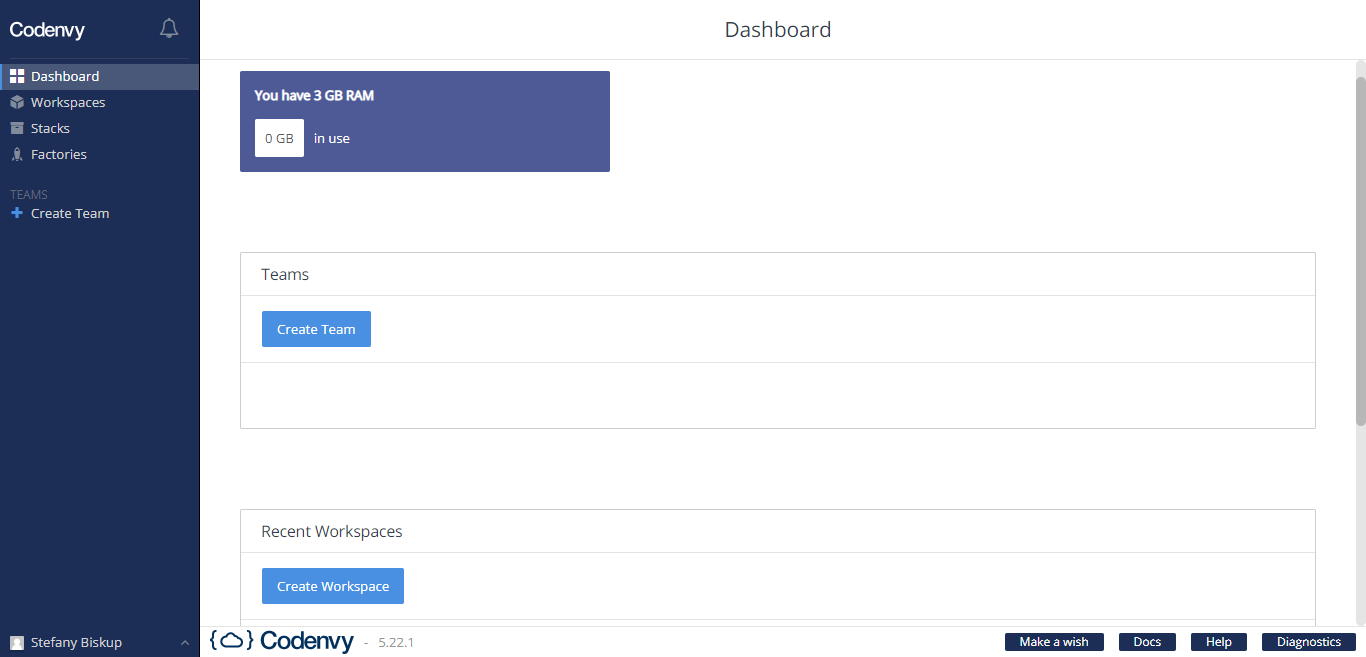
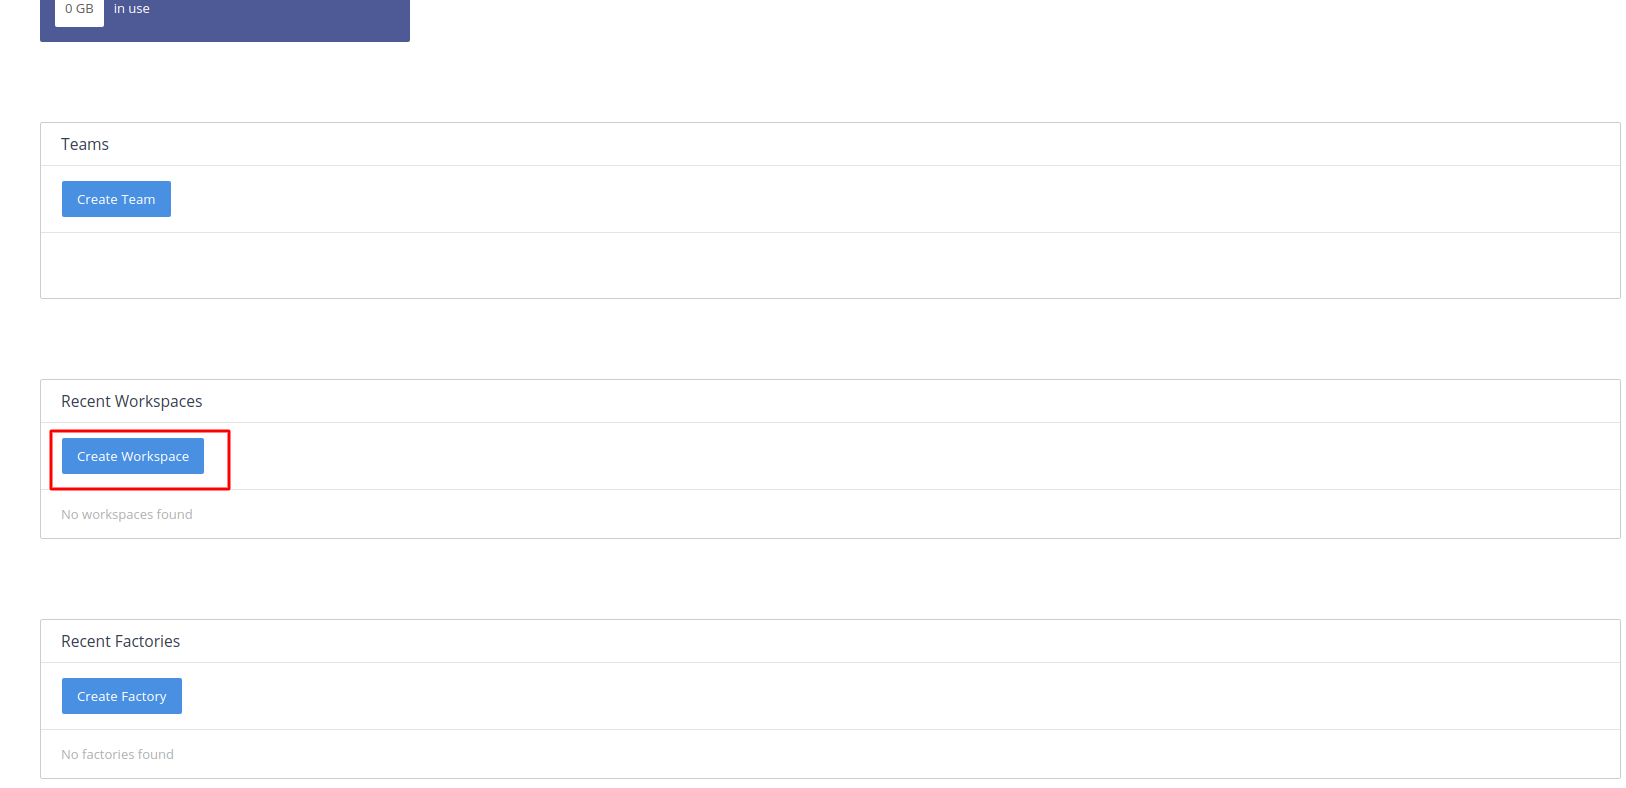
Revisão codeny

diff --git a/README.md b/README.md
@@ -1,15 +1,12 @@
 # Rails Girls Tutorial
+![Readme](images/logovermelho.jpg)
 
 > Este trabalho é licenciado sob a licença Creative Commons Attribution-ShareAlike 4.0. Para ver uma cópia desta licença, visite https://creativecommons.org/licenses/by-sa/4.0/
 
-Esse tutorial é uma modificação usando o conteúdo do [tutorial original](http://guides.railsgirls.com/guides-ptbr/) disponível na página do Rails Girls Guides e também do [tutorial do Django Girls](https://tutorial.djangogirls.org/pt/).
+Esse tutorial é uma modificação usando o conteúdo do [tutorial original](http://guides.railsgirls.com/guides-ptbr/) disponível na página do Rails Girls Guides Oficial, do [tutorial do Django Girls](https://tutorial.djangogirls.org/pt/) e do [tutorial do Django Girls Porto Alegre](https://dgportoalegre.gitbook.io/djangogirls/sourcelair/o-que-e-o-sourcelair).
 
-O tutorial original do Rails Girls pode ser dividido em duas partes: preparação do ambiente e trabalho direto com programação Ruby on Rails, além de um conteudo para quem quer continuar aprendendo sobre Ruby Rails. Mas a primeira parte, a instalação dos programas, era difícil e costumavam acontecer diversos erros devido a instalação ser feita na própria máquina. Portanto, optamos por usar o Codenvy (em edições anteriores utilizamos o Codeanywhere). Apresentaremos a ferramenta no próximo capítulo.
+O tutorial original do Rails Girls pode ser dividido em duas partes: preparação do ambiente e trabalho direto com programação Ruby on Rails, além de um conteudo para quem quer continuar aprendendo sobre. Na primeira parte é realizada a instalação dos programas, era difícil e costumavam acontecer diversos erros devido a instalação ser feita na própria máquina. O tutorial do Django Girls possui conteúdos super bem explicados e lindos que vão facilitar muito nosso entendimento na hora de pôr a mão na massa, por isso pegamos alguns emprestados :)
 
-O tutorial do Django Girls possui conteúdos super bem explicados e lindos que vão facilitar muito nosso entendimento na hora de pôr a mão na massa, por isso pegamos alguns emprestados :)
-
-Assim, o tutorial precisou ser levemente adaptado, para que fosse adicionado as partes necessárias para uso do Codenvy e alguns detalhes mais. :)
-
-Mas não se preocupe, o objetivo final continua o mesmo! Você vai sair da oficina com seu blog no ar e uma ótima introdução ao mundo da programação!
+Por isso o tutorial precisou ser levemente adaptado, tirando partes desnecessárias ou que causavam problema no Codenvy. Mas não se preocupe, o objetivo final continua o mesmo! Você vai sair da oficina com seu blog no ar e uma ótima introdução ao mundo da programação! Esse ano optamos por usar o Codenvy (em edições anteriores utilizamos o Codeanywhere). Apresentaremos a ferramenta no próximo capítulo. Mas não se preocupe, o objetivo final continua o mesmo! Você vai sair da oficina com seu blog no ar e uma ótima introdução ao mundo da programação!
 
 

diff --git a/codenvy/dashboard_workspace.md b/codenvy/dashboard_workspace.md
@@ -1,0 +1,45 @@
+# O que é um Dashboard?
+
+# Caso você já tenha usado o Codenvy
+
+Caso a sua conta seja gratuita, você tem o limite de apenas um workspace (3GB de RAM). Neste caso, é interessante verificar se você já tem algum workspace criado, pois será necessário excluí-lo.
+
+Siga para a seção _Workspaces_, no canto superior esquerdo, e selecione o container desejado. Após selecionar, clique em _Delete_ e confirme a exclusão clicando em _Delete_ novamente e aguarde até que uma mensagem de sucesso apareça na tela.
+![Dashboard com projetos já inicializados](../images/codenvy/workspace_mais.png)
+
+![Dashboard como deletar](../images/codenvy/delete.png)
+
+
+# Criando o nosso workspace <3
+
+Na tela do dashboard (painel de controle em inglês), é necessário clicar no botão **"Create Workspace"** para criar uma nova área de trabalho, no retângulo onde esta escrito 'Recents Workspaces'.
+
+![Criando um workspace](../images/codenvy/dashboard.png)
+
+Isso irá abrir a janela de criação de uma nova área de trabalho. Nesta janela, dê o nome "railsgirls" ao seu projeto, use a roalgem ou a caixa de busca para pesquisar por _Rails_ e selecionar a opção.
+Para que tudo dê certinho, vamos nos certificar de escolher aquela que diz "Rails" e, na seção RAM, a opção "eclipse/ubuntu_rails":
+
+![Configurando o workspace](../images/codenvy/new_workspace.png)
+
+Em seguida, vamos já adicionar o nosso projeto no workspace. Vamos clicar em _Add or import a project_ (Adicionar ou importar um projeto em inglês) e selecionar o projeto **web-rails-simple**, marque o checkbox, apos clique em _Add_.
+
+![Configurando o projeto](../images/codenvy/new_project.png)
+
+Logo em seguida abaixo vai abrir uma opção, nós sugerimos trocar o nome desse projeto para **railsgirls** no campo "Project Name" para ficar mais fácil de achar ele depois, apos mudar o campo para o nome sugerido clicarmos em _save_.
+
+![Alteração do nome do projeto](../images/codenvy/change_project_name.png)
+
+
+Após salvar as modificações corretamente, clique em _Create_ e aguarde até que uma notificação de **Workspace is running** apareça na tela.
+
+![Finalização da criação](../images/codenvy/finalizar_criacao.png)
+
+
+# Workspace 
+
+# O que é um _workspace_?
+
+Um workspace nada mais é do que a máquina virtual na qual você irá trabalhar. Quando criamos ela, com esta ferramenta, a máquina já vem com o sistema operacional e os programas que precisamos para fazer o nosso blog. 
+
+![Dashboard como deletar](../images/codenvy/workspace.png)
+

diff --git a/codenvy/criando_conta.md b/codenvy/criando_conta.md
@@ -1,12 +1,14 @@
 # Criando uma conta
 
-O primeiro passo para utilizarmos o Codenvy é criar uma conta. Acesse o [site](https://codenvy.io/site/login) e clique no link _"Create One"_ para se registrar. Você pode usar seu e-mail ou uma conta: Google, GitHub ou VSTS.
+O primeiro passo para utilizarmos o Codenvy é criar uma conta. Acesse o [site](https://codenvy.io/site/login) e clique no link _"[Create One](https://codenvy.io/site/login?redirect_url=https%3A%2F%2Fcodenvy.io%2F#)"_ para se registrar. Você pode usar seu e-mail ou uma conta: Google, GitHub ou VSTS.
 
 ![Inicio](../images/codenvy/inicio.png)
 
 # Valide seu e-mail
 
 É necessário que você valide seu e-mail, então certifique-se de ter acesso a ele.
+
+![Inicio](../images/codenvy/menssagem_confirmacao.png)
 
 # Caso já tenha conta
 

diff --git a/SUMMARY.md b/SUMMARY.md
@@ -5,7 +5,8 @@
 * [Codenvy](codenvy/codenvy.md)
   * [O que é o Codenvy?](codenvy/o_que_e.md)
   * [Criando uma conta](codenvy/criando_conta.md)
-  * [Criando um workspace](codenvy/criando_workspace.md)
+  * [Complete o cadastro](codenvy/complete_cadastro.md)
+  * [Dashboarde Workspace](codenvy/dashboard_workspace.md)
 * [Como funciona a internet?](internet/como_funciona.md)
 * [Editor de Código](editor_de_codigo/introducao.md)    
   * [Porque precisamos de um editor de código?](editor_de_codigo/necessidade.md)

diff --git a/codenvy/codenvy.md b/codenvy/codenvy.md
@@ -4,6 +4,4 @@
 
 Para desenvolver o nosso projeto, sem ter que instalar ferramentas direto na máquina que estamos usando, vamos utilizar uma ferramenta chamada Codenvy.
 
-Você pode acessá-la [aqui](https://codenvy.io/site/login)!
-
-teste
+Você pode acessá-la [https://codenvy.io](https://codenvy.io)!

diff --git a/codenvy/complete_cadastro.md b/codenvy/complete_cadastro.md
@@ -1,0 +1,5 @@
+# Complete o cadastro
+
+Após a confirmação do e-mail, entre novamente no site do codenvy, se caso o link de confirmação no e-mail não funcionar. Preencha o formulário para completar o cadastro:
+
+![Inicio](../images/codenvy/cadastro.png)

diff --git a/introducao.md b/introducao.md
@@ -5,6 +5,5 @@ Ele se parecerá (mais ou menos) com isso:
 
 
 ![Blog finalizado](images/rails/estilo_final.png)
-![Blog finalizado](images/logovermelho.jpg)
 
 Vamos lá!
